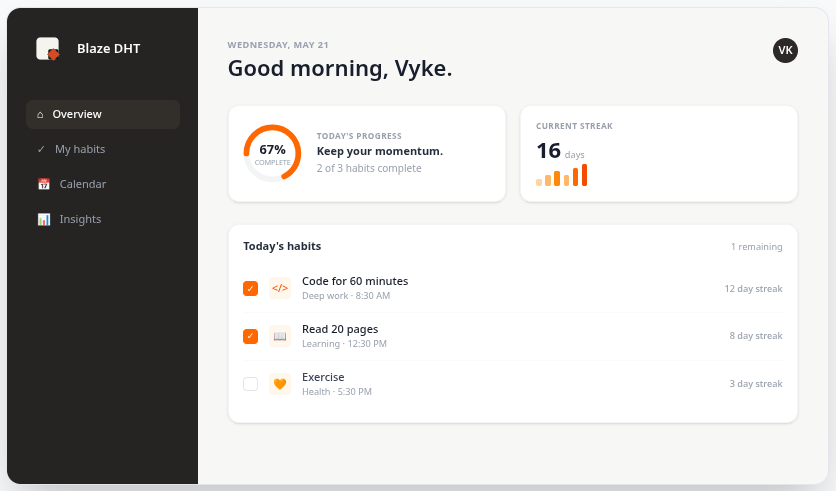
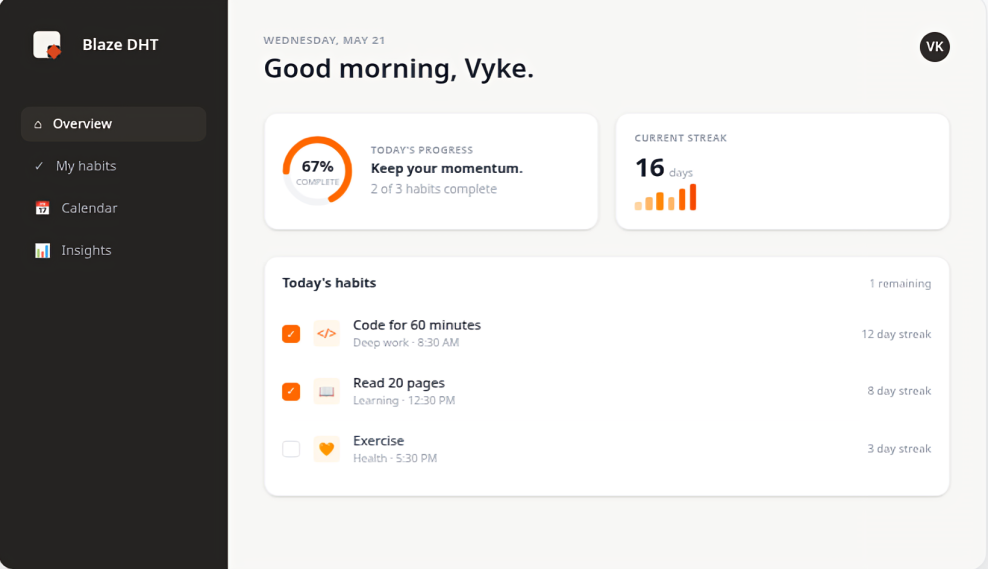
feat: update landing page layout and styles; add StatusDot component for visual enhancement

diff --git a/src/pages/Guest/LANDING/SocialProof.jsx b/src/pages/Guest/LANDING/SocialProof.jsx
@@ -3,14 +3,14 @@
 export default function SocialProof(){
     return(
         <>
-        <div className="flex items-center justify-center gap-1 mb-10 texts-xs text gray-500">
+        <div className="flex items-center justify-center gap-1 mb-10 texts-xs text gray-500 py-4">
             <div className='flex -space-x-1'>
                 <span className="w-5 h-5 rounded-full bg-(--color-blaze-amber) border border-(--color-blaze-white) text-xs text-[9px] flex items-center justify-center">VM</span>
                 <span className="w-5 h-5 rounded-full bg-(--color-blaze-unknown) border border-(--color-blaze-white) text-[9px] flex items-center justify-center">EK</span>
                 <span className="w-5 h-5 rounded-full bg-(--color-blaze-stone) border border-(--color-blaze-white) text-[9px] flex items-center justify-center">JM</span>
             </div>
 
-            <span>Join focused people building better days</span>
+            <span className="italic text-sm text-(--color-blaze-text) gap-1.5 px-1.5">Join focused people building better days</span>
         </div>
         </>
     )

diff --git a/src/pages/Guest/LANDING/Landing.jsx b/src/pages/Guest/LANDING/Landing.jsx
@@ -6,15 +6,16 @@ import Product from "../PRODUCTS/Product";
 export default function Landing(){
     return(
     <>
-        <div>
             <Eyebrow/>
-        <h1>
-            Build habits that will actually <h1 className="text-orange-700">
-            stick
-            </h1> 
-        </h1>
-        <p>
-            Track your daily habits, understand your consistency and get peresonalized accountability whenever you need it.
+        <div>
+            <h1 className="text-8xl justify-center text-center font-bold font-family-sans"> 
+                BUILD HABITS<br/>THAT WILL ACTUALLY<h1 className="text-orange-700 font-bold">
+            STICK
+            </h1>
+        
+            </h1>
+        <p className="text-sm text-center font-family-sans gap-2 px-5 py-10 italic font-stretch-100%">
+            Track your daily habits, <br/> understand your consistency and get peresonalized accountability whenever you need it.
         </p>
         <Cta />
         <Socialproof />

diff --git a/src/pages/Guest/LANDING/Eyebrow.jsx b/src/pages/Guest/LANDING/Eyebrow.jsx
@@ -1,13 +1,11 @@
 import { Typography } from "@heroui/react"
+import StatusDot from "../../../components/StatusDot"
 
 export default function Eyebrow(){
     return(
         <>
-            <div className='border-4 rounded-2xl'>
-                <span>
-
-                </span>
-                <Typography> Build Your With Intentions</Typography>
+            <div className="flex items-center justify-center px-5 py-3">
+                <Typography className="italic border rounded-2xl text-xs shadow-sm gap-2 flex items-center px-3 py-1"> <StatusDot/>Build your with Intentions</Typography>
             </div>
         </>
     )

diff --git a/src/pages/Guest/LANDING/Cta.jsx b/src/pages/Guest/LANDING/Cta.jsx
@@ -7,7 +7,7 @@ export default function Cta() {
     return(
     <>
     <div className="flex items-center gap-2 justify-center">
-        <Button className={'bg-orange-600 hover:bg-orange-700 rounded-2xl-md border-2 shadow-sm text-white text-xs flex items-center gap-2 px-3 py-2'}>
+        <Button className={'bg-orange-600 hover:bg-orange-700 rounded-2xl-md border-2 shadow-2xl text-white text-xs flex items-center gap-2 px-3 py-2'}>
             <Link to={'/login'}>Get started free</Link>
             {/* <FontAwesomeIcon icon={FaArrowRight} /> */}
         </Button>

diff --git a/src/index.css b/src/index.css
@@ -16,7 +16,7 @@
     --color-blaze-unknown: #ffb869;
     --color-blaze-amber: #fbbf24;
     --color-blaze-stone: #bec3c8;
-    --colo-blaze-text: #a7b5d1;
+    --color-blaze-text: #45484d;
 
     --font-blaze: "Manrope", Arial, Helvetica, sans-serif;
 };

diff --git a/src/components/StatusDot.jsx b/src/components/StatusDot.jsx
@@ -1,0 +1,10 @@
+
+export default function StatusDot(){
+    return(
+        <>
+        <span>
+            
+        </span>
+        </>
+    )
+}
